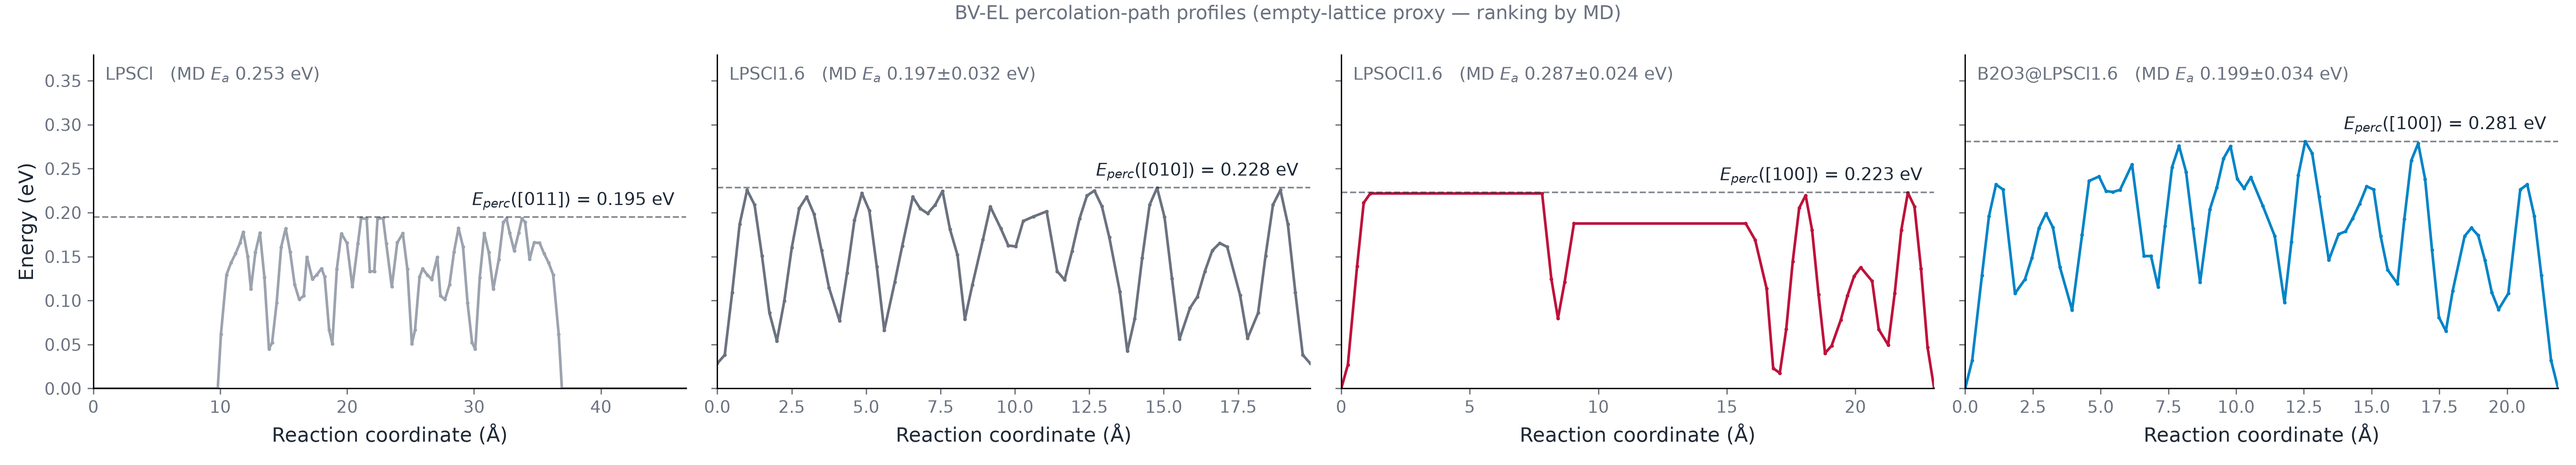
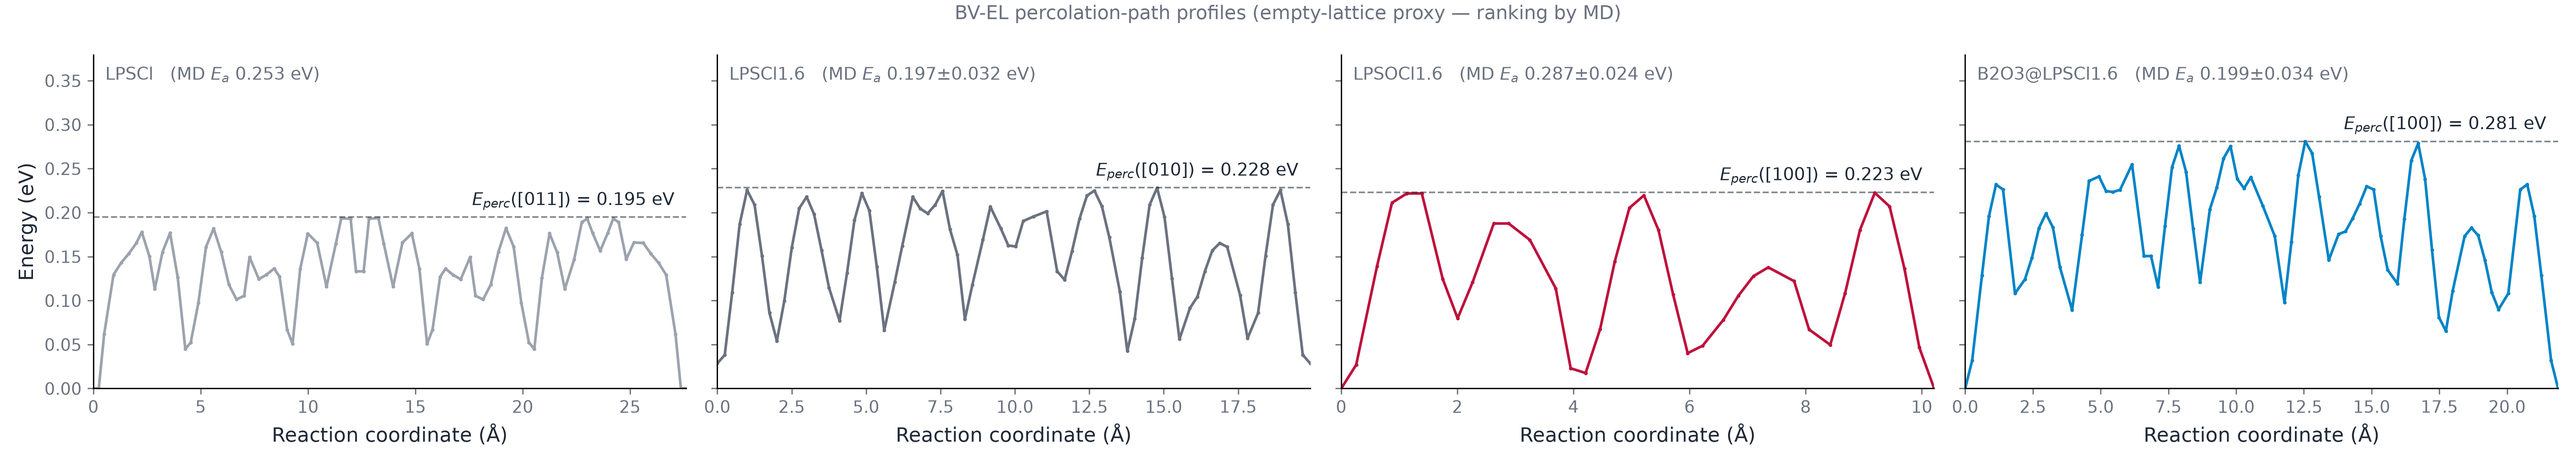
fix: BV 경로 프로파일 반응좌표의 주기경계 랩 아티팩트 제거 + bvse.md 그림 읽는 법 등록

diff --git a/tools/figures/fig_bv_path_profile.py b/tools/figures/fig_bv_path_profile.py
@@ -257,10 +257,24 @@ def profile_for(name, path_cif):
     path = dijkstra_valley(E2, start, tgt, open_axes, t, cell, N)
     if path is None:
         raise SystemExit(f"⛔ {name}: cap={t:.3f} 에서 경로가 안 이어진다 (모순)")
-    idx = np.array(path, float)
-    frac = idx / np.array(N)
-    cart = frac @ cell
-    d = np.concatenate([[0.0], np.cumsum(np.linalg.norm(np.diff(cart, axis=0), axis=1))])
+    # ⚠⚠ **반응좌표는 랩을 풀고 재야 한다 (2026-08-05 수정).**
+    #   dijkstra 는 주기축에서 `v[d] %= sh[d]` 로 감싼다. 그 인덱스를 그대로
+    #   데카르트로 바꿔 거리를 누적하면, 셀을 넘는 한 걸음이 **셀 한 변만큼의
+    #   가짜 점프**로 잡힌다 — 프로파일엔 그 구간이 '평탄 구간'처럼 그려진다.
+    #   실측(수정 전): comp1 9.80 Å 점프 2개(전체 길이의 42%), lpsocl 6.68 Å 2개(58%).
+    #   → LPSOCl 패널의 긴 평탄대는 물리(넓은 통로)가 아니라 이 아티팩트였다.
+    #   고침: 이웃 간 인덱스 차를 {-1,0,1} 로 되돌린 뒤(26-이웃이므로 그게 참값)
+    #   그 차분만 데카르트로 환산해 누적한다. E 값·E_perc·순위는 영향 없다
+    #   (같은 voxel 을 지나므로) — 바뀌는 건 x축과 경로 길이뿐이다.
+    idx = np.array(path, int)
+    dif = np.diff(idx, axis=0)
+    for d_ax in range(3):
+        n_ax = E2.shape[d_ax]
+        dif[:, d_ax] = (dif[:, d_ax] + n_ax // 2) % n_ax - n_ax // 2   # 최소상 (MIC)
+    if np.abs(dif).max() > 1:
+        raise SystemExit(f"⛔ {name}: 랩 해제 후에도 |Δindex|>1 — 경로가 26-이웃이 아니다")
+    step_cart = (dif / np.array(N)) @ cell
+    d = np.concatenate([[0.0], np.cumsum(np.linalg.norm(step_cart, axis=1))])
     e = np.array([E2[tuple(p)] for p in path])
     wind = "[" + "".join(str(x) for x in T) + "]"
     print(f"    경로: winding {wind} · {len(path)}점 · 길이 {d[-1]:.1f} A · max {e.max():.4f} eV")
@@ -290,6 +304,10 @@ def main():
                 'then min-energy-line-integral path under that ceiling."\n')
         f.write('"# EMPTY-LATTICE PROXY: absolute scale plausible, family sigma/Ea ranking is '
                 'decided by MD (kb/concepts/bvse.md sec 8-9)."\n')
+        f.write('"# 2026-08-05 FIX: reaction coordinate is now PBC-unwrapped. Before the fix a '
+                'cell-crossing step was counted as a full cell-edge jump, which drew a FAKE FLAT '
+                'PLATEAU (comp1 2x9.80 A = 42% of the plotted length; lpsocl 2x6.68 A = 58%). '
+                'Path lengths comp1 46.7->27.6 A, lpsocl 23.1->10.2 A. E_perc / rankings unchanged."\n')
         for s, r in res.items():
             f.write(f'"# {s}: axis {r["axis"]}, E_perc {r["E_perc"]:.4f} eV; '
                     f'bvlain E_1D/2D/3D {r["ref"]["E_1D"]:.3f}/{r["ref"]["E_2D"]:.3f}/'
